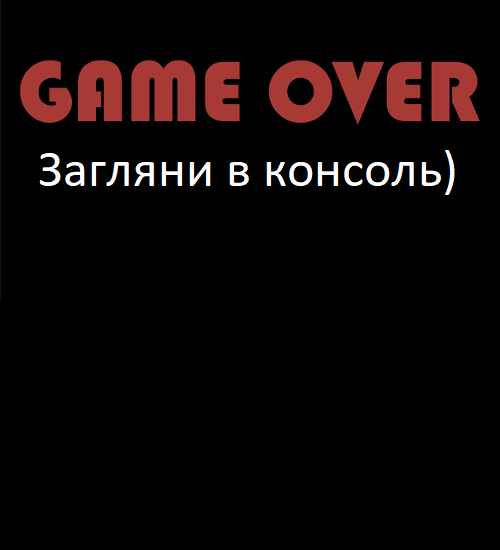
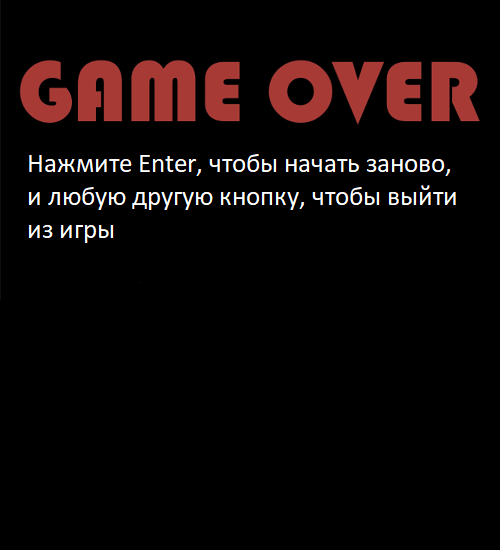
:sparkles: Переработка геймовера

Changed region(s): [[0.03, 0.2782, 0.93, 0.4327]]

diff --git a/TDGame.py b/TDGame.py
@@ -173,13 +173,11 @@ class Game:
             tmp_group.draw(self.screen)
             pg.display.flip()
             clock.tick(50)
-        print('The game is over, would you like to restart?')
-        answer = input().lower().strip()
-        if answer == 'yes':
-            os.system('python restart.py')
-            self.terminate()
-        else:
-            self.terminate()
+        for event in pg.event.get():
+            if event.type == pg.KEYDOWN:
+                if event.key == pg.K_ENTER:
+                    os.system('restart.py')
+                self.terminate()
 
     def terminate(self):
         pg.quit()
